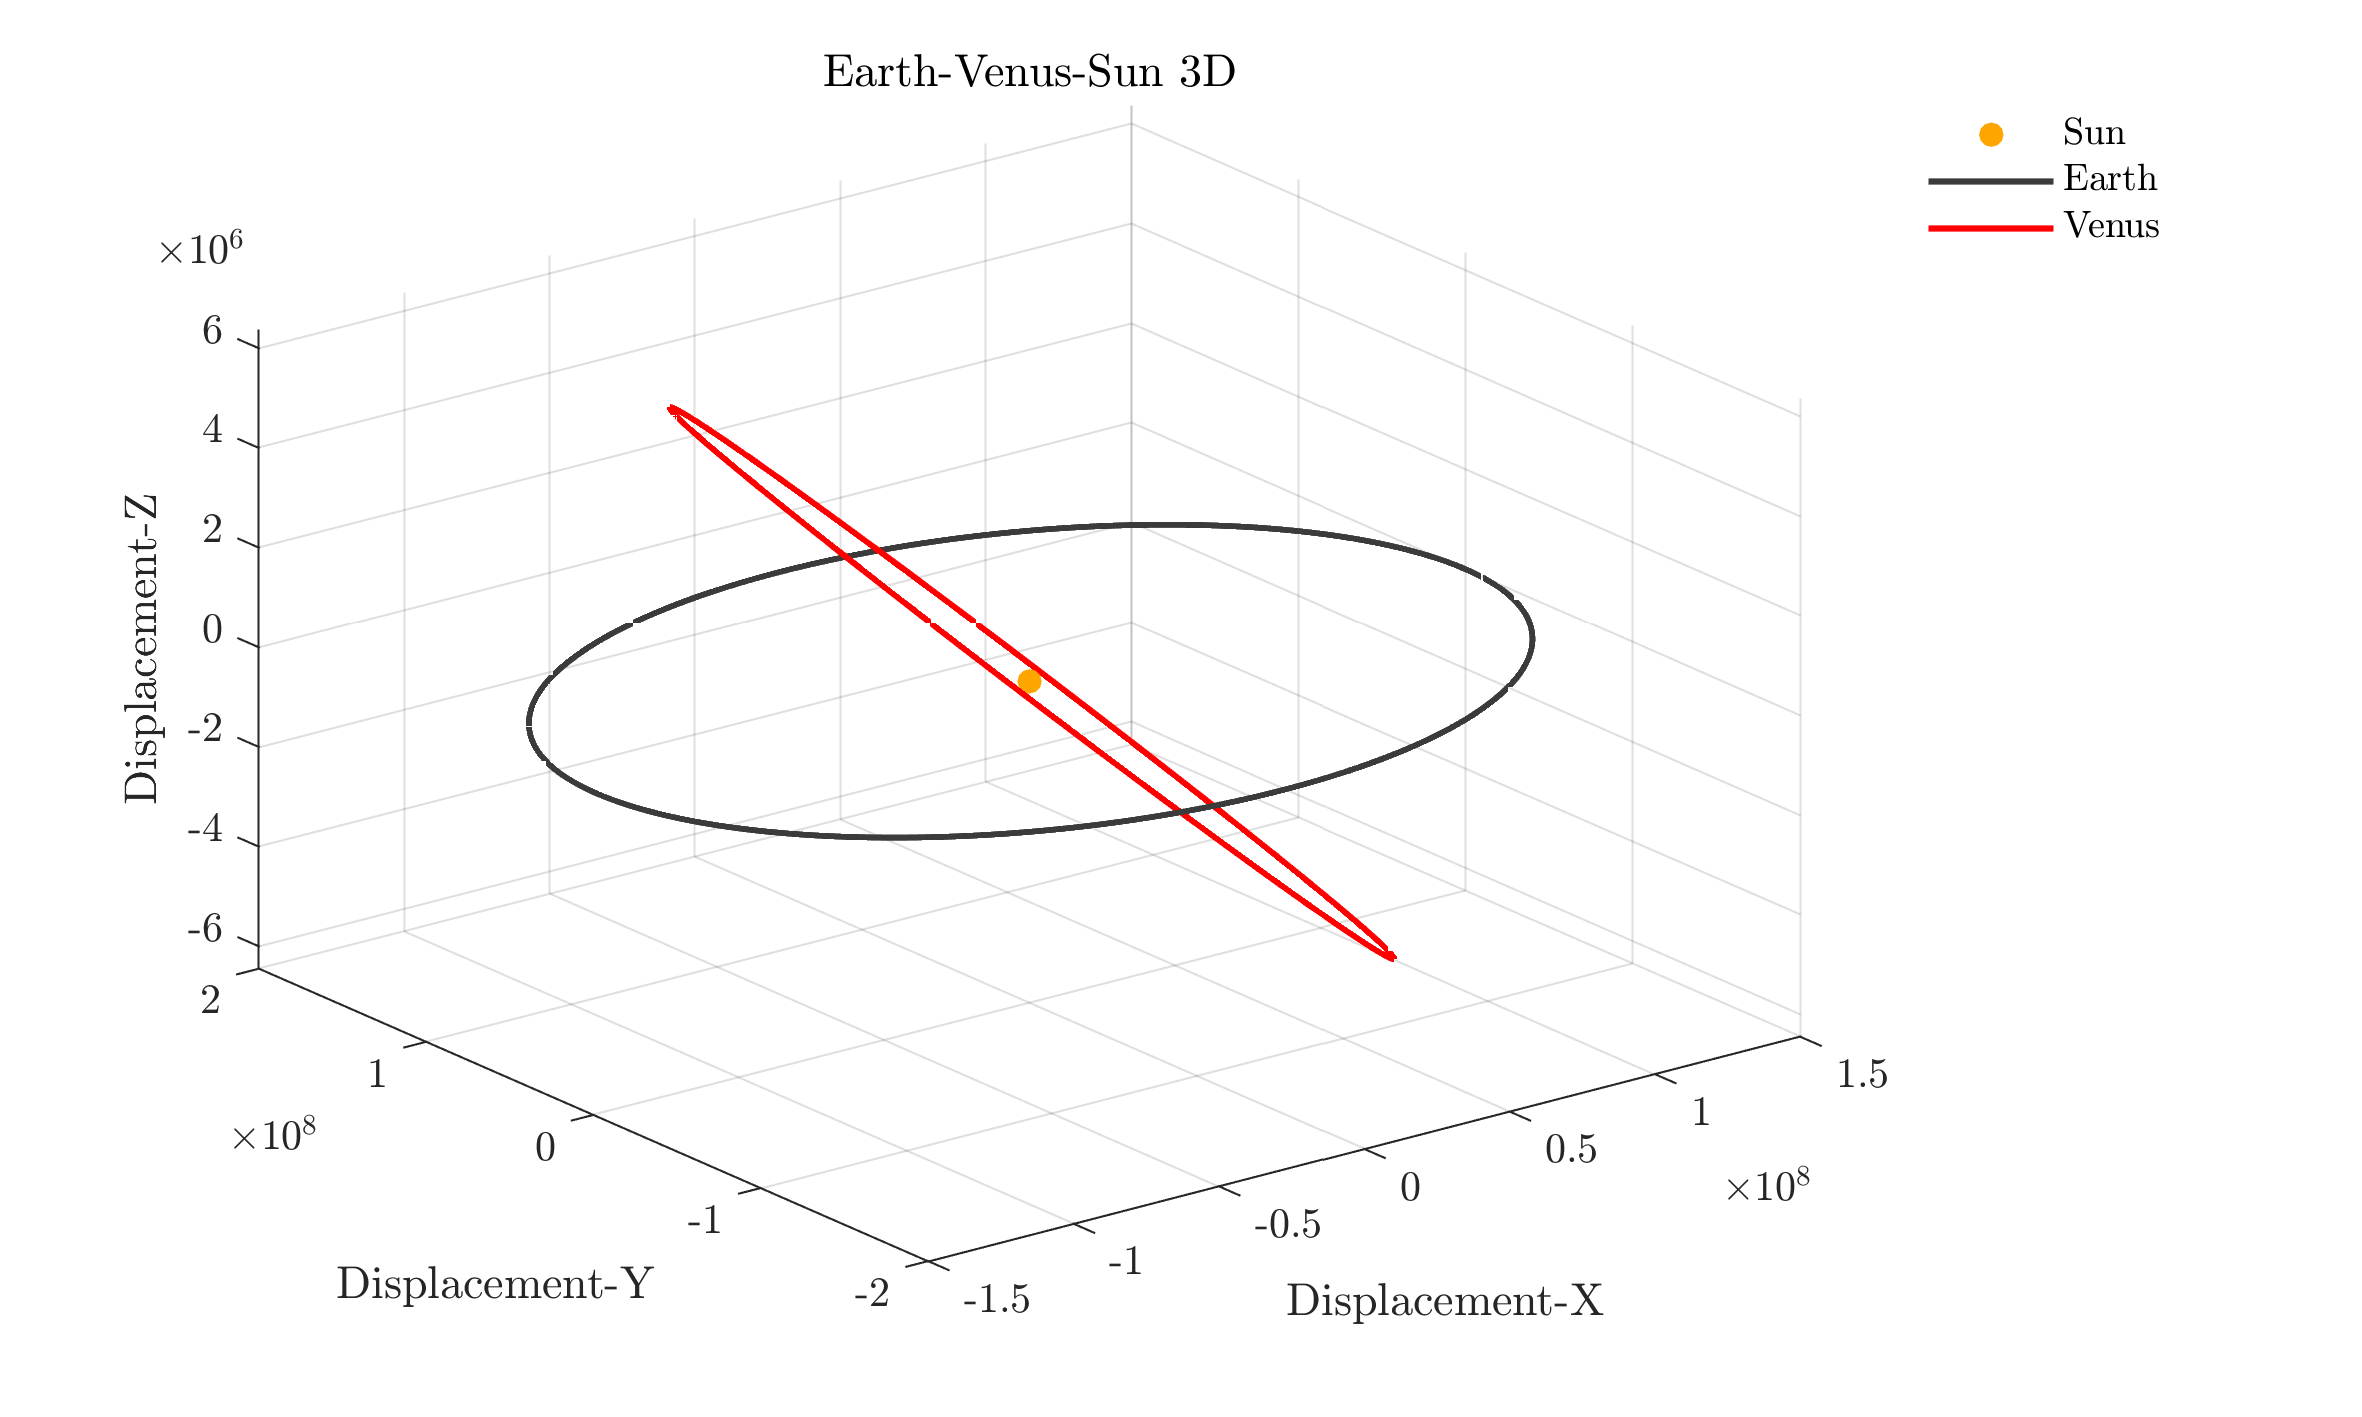
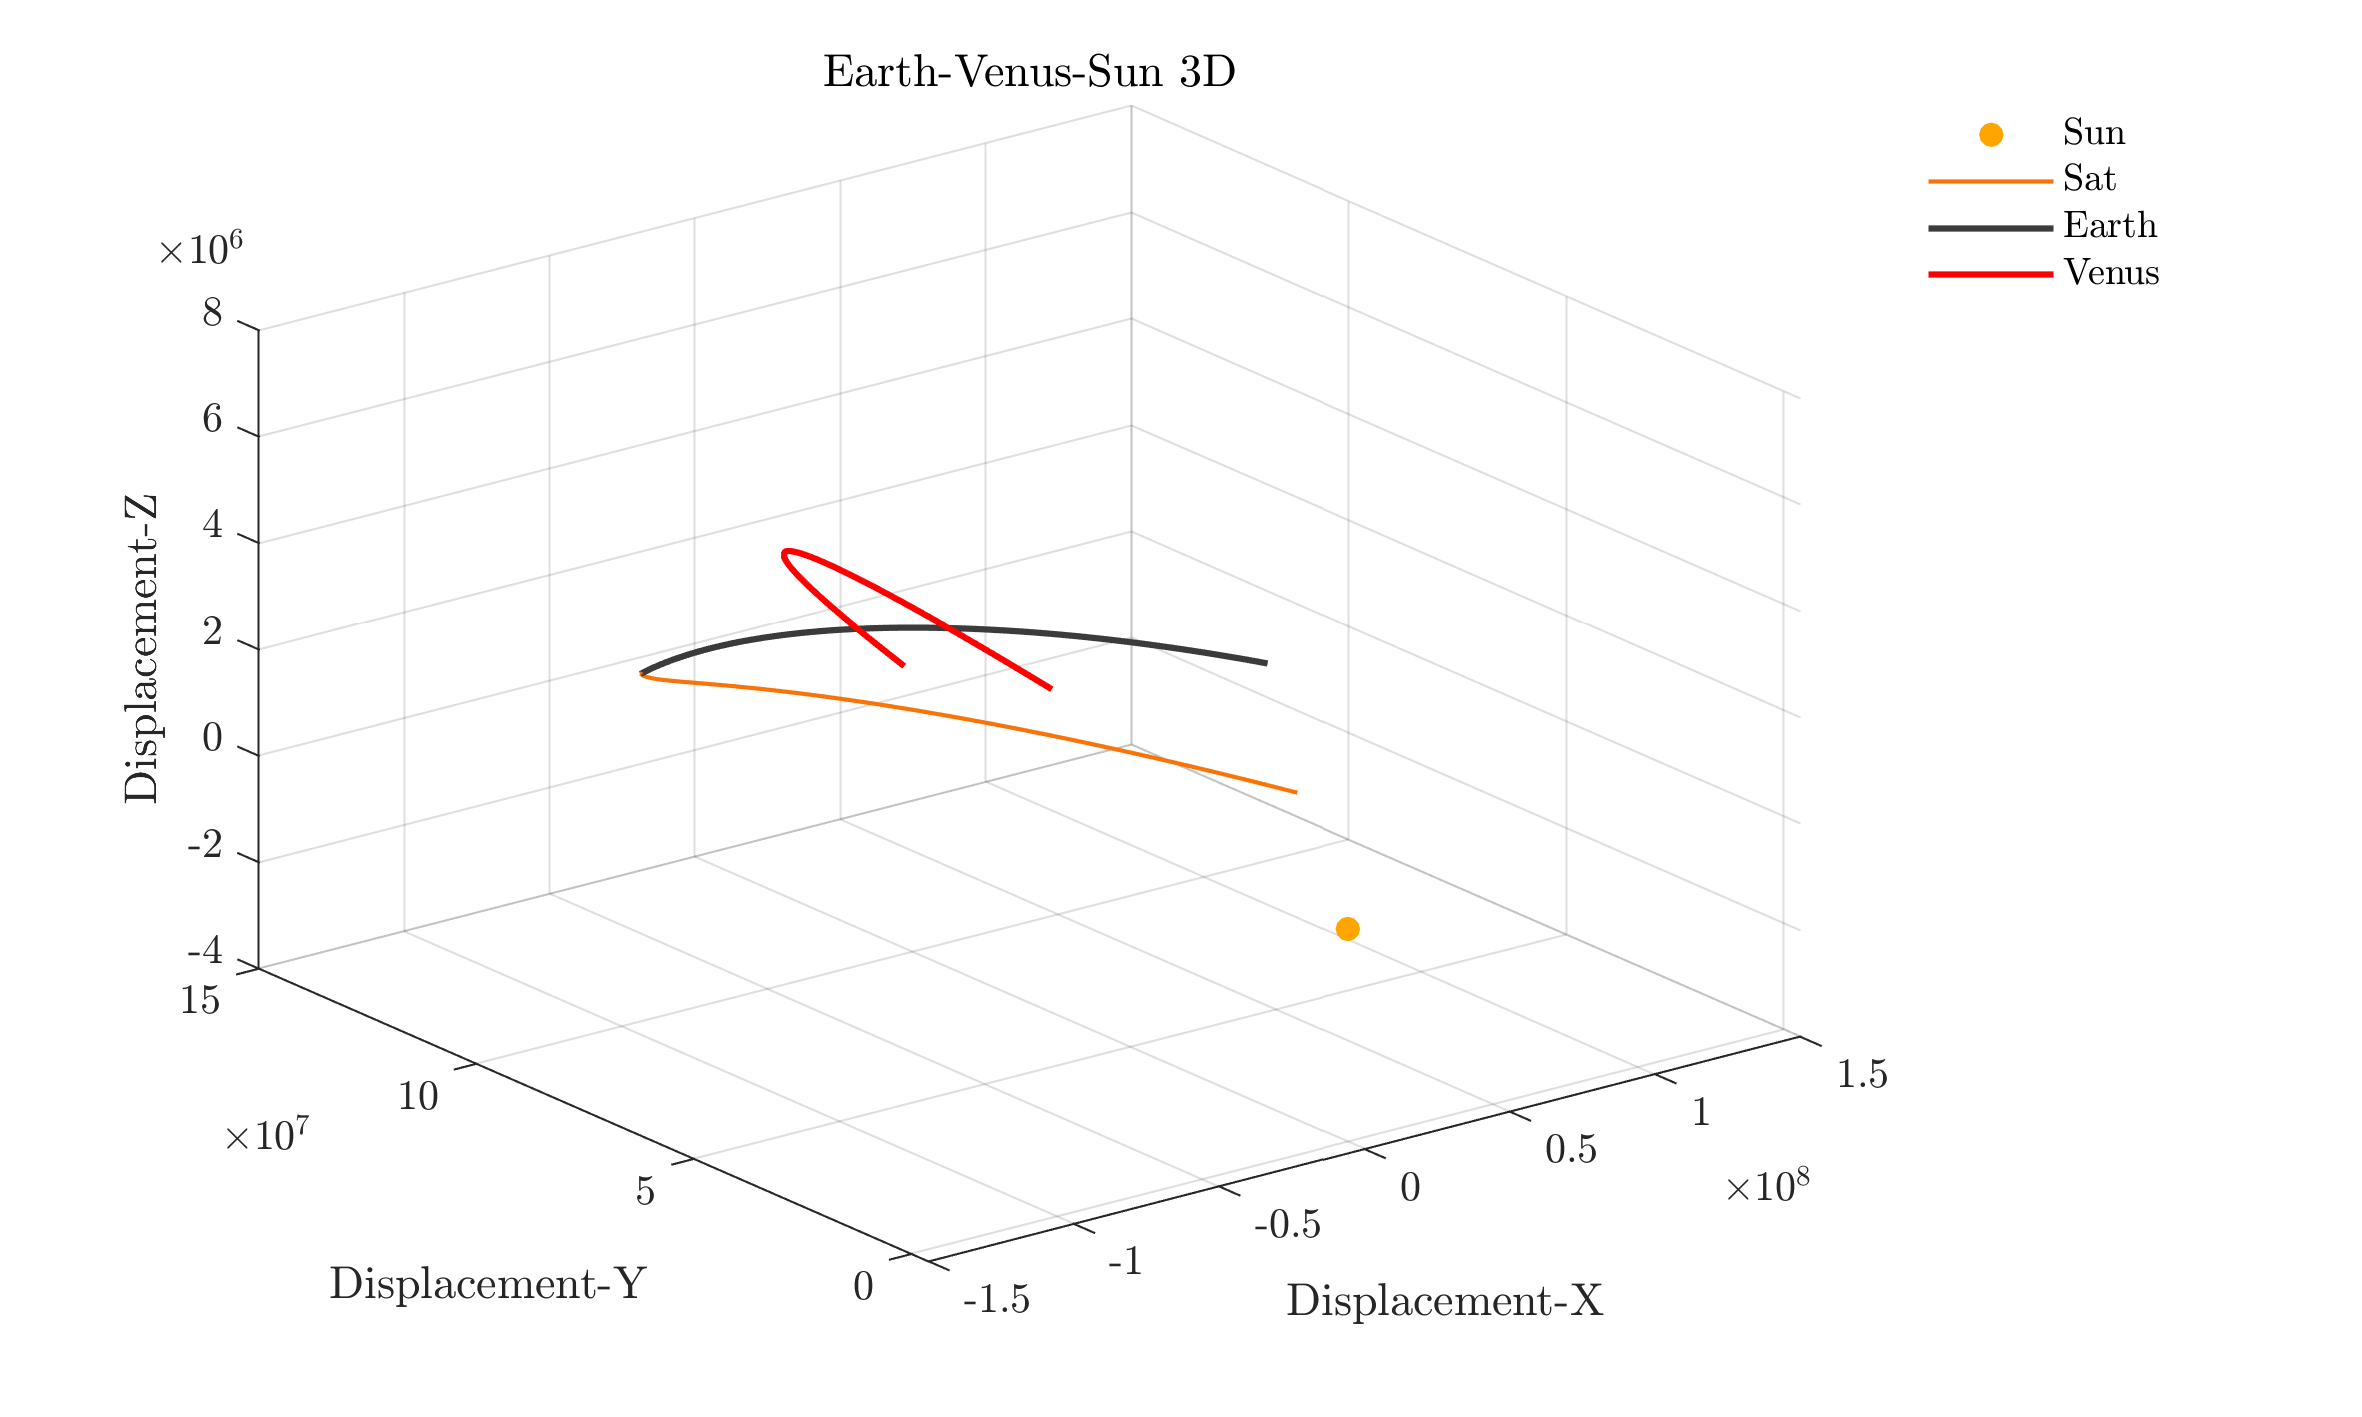
so many orbit calculations

diff --git a/AAE251_Transfer_Calculator.m b/AAE251_Transfer_Calculator.m
@@ -24,7 +24,7 @@ close all;
 
 plotnum1 = 0;
 plotnum2 = 1;
-plotnum3 = 1;
+plotnum3 = 0;
 
 % conversions
 
@@ -34,8 +34,8 @@ G = 6.6743e-11;
 
 % simulation timestep parameters
 time = 0;      % simulation starting time [s]
-dt = 3600;      % time step [s]
-timespan = s2yr; % span of time to integrate over [s]
+dt = 10;      % time step [s]
+timespan = (s2yr/365) * 10; % span of time to integrate over [s]
 
 % Sun Inits: Initialize with no velocity, act as zero velocity reference
 % x, y, z initial coordinates of sun:
@@ -57,33 +57,41 @@ earthMu = 3.986e5;      % gravitational constant [km^3/s^2]
 earthMass = 5.9722e24;  % mass of Earth [kg]
 
 % calculate the cartesian state for the given inputs:
-[earthPos, earthVel] = orbitalElements(earthA, earthE, earthI, earthRAAN, earthAOP, earthMeanLong, sunMu, sunPos);
+[earthPos, earthVel] = orbitalElements(earthA, earthE, earthI, earthRAAN, earthAOP, earthMeanLong, sunMu, sunPos, 0);
 
 % Venus Inits, pulled from J2000:
 venusA = 0.723 * AU2km; % semi major axis
-venusE = 0.00677;   % eccentricity
-venusI = 3.39471;    % inclination
-venusRAAN = 76.68069; % longitude of ascending node [deg]
-venusAOP = 131.53298;  % argument of periapsis [deg]
+venusE = 0.00677;       % eccentricity
+venusI = 3.39471;       % inclination
+venusRAAN = 76.68069;   % longitude of ascending node [deg]
+venusAOP = 131.53298;   % argument of periapsis [deg]
 venusMeanLong = 181.97973;
-venusMu = 0.1;  % gravitational constant 
+venusMu = 3.248e5;  % gravitational constant 
 % calculate the cartesian state for the given inputs:
-[venusPos, venusVel] = orbitalElements(venusA, venusE, venusI, venusRAAN, venusAOP, venusMeanLong, sunMu, sunPos);
+[venusPos, venusVel] = orbitalElements(venusA, venusE, venusI, venusRAAN, venusAOP, venusMeanLong, sunMu, sunPos, 0);
 
 % Satellite Inits:
 satA = 6600;     % semi major axis
 satE = 0;    % eccentricity
-satI = 28.5;     % inclination
-satRAAN = 50;  % longitude of ascending node [deg]
+satI = 28;     % inclination
+satRAAN = 20;  % longitude of ascending node [deg]
 satAOP = 90;   % argument of periapsis [deg]
-satMeanLong = 0;
+satMeanLong = 5;
 % calculate the cartesian state for the given inputs:
-[satPos, satVel] = orbitalElements(satA, satE, satI, satRAAN, satAOP, satMeanLong, sunMu, sunPos);
+[satPos, satVel] = orbitalElements(satA, satE, satI, satRAAN, satAOP, satMeanLong, earthMu, earthPos, earthVel);
 
 % manuver inits:
-burnStartTime = 3.5; % start time of burn [s]
-burnDuration = .2;   % duration of burn [s]
-deltaV = .5;         % change in velocity of burn [-/s]
+burn1StartTime = 3600*.9; % start time of burn [s]
+dV1 = 3.5;         % change in velocity of burn [km/s]
+
+%prealloc arrays for speed:
+
+sunPosArray = zeros(timespan / dt, 3);
+earthPosArray = zeros(timespan / dt, 3);
+earthVelArray = zeros(timespan / dt, 3);
+venusPosArray = zeros(timespan / dt, 3);
+satPosArray = zeros(timespan / dt, 3);
+satVelArray = zeros(timespan / dt, 3);
 
 %% Main simulation loop:
 
@@ -100,7 +108,7 @@ for i = 1:endTime
     %earth rk4 method:
     rEarth = sunPos - earthPos;
     % rk4 integrate:
-    earthVel = rk4(@(t,y)accel(t,earthVel,rEarth, 0, 0, 0, sunMu, 0), dt, t, earthVel);
+    earthVel = rk4(@(t,y)accel(t,earthVel,rEarth,sunMu), dt, t, earthVel);
     earthPos = rk4(@(t,y)vel(t,earthVel), dt, t, earthPos);
     earthPosArray(i,:) = earthPos;
     earthVelArray(i,:) = earthVel;
@@ -108,20 +116,34 @@ for i = 1:endTime
     %venus rk4 method:
     rVenus = sunPos - venusPos;
     % rk4 integrate:
-    venusVel = rk4(@(t,y)accel(t,venusVel,rVenus, 0, 0, 0, sunMu, 0), dt, t, venusVel);
+    venusVel = rk4(@(t,y)accel(t,venusVel,rVenus, sunMu), dt, t, venusVel);
     venusPos = rk4(@(t,y)vel(t,venusVel), dt, t, venusPos);
     venusPosArray(i,:) = venusPos;
 
     %sat rk4 method:
-    rSatPlanet = sunPos - satPos;
-    rSatMoon = earthPos - satPos;
+    rSatEarth = earthPos - satPos;
+    rSatVenus = venusPos - satPos;
+    rSatSun = sunPos - satPos;
     % define vectors for multibody dynamics:
-    rList = [rSatPlanet, rSatMoon];
-    muList = [sunMu, earthMu];
+    rList = [rSatEarth, rSatVenus, rSatSun];
+    muList = [earthMu, venusMu, sunMu];
     % rk4 integrate:
-    satVel = rk4(@(t,y)accel(t,satVel,rList, burnStartTime, burnDuration, deltaV, muList, 1), dt, t, satVel);
+    satVel = rk4(@(t,y)accel(t,satVel,rList, muList), dt, t, satVel);
+
+    thrustAccel = 0;
+
+    %thrust force:
+    if t >= burn1StartTime && t < burn1StartTime + dt
+        % apply force along the velocity vector
+        deltaV1 = satVel / norm(satVel) * dV1
+
+        satVel = satVel + deltaV1
+    end
+
+
     satPos = rk4(@(t,y)vel(t,satVel), dt, t, satPos);
     satPosArray(i,:) = satPos;
+    satVelArray(i,:) = satVel;
 end
 
 
@@ -172,7 +194,7 @@ end
 if plotnum2 == 1
 
     hfig = figure;  % save the figure handle in a variable
-    fname = '3D Plnaets Plot';
+    fname = '3D Planets Plot';
 
 
     picturewidth = 20; % set the width of image in cm
@@ -182,7 +204,7 @@ if plotnum2 == 1
 
     plot3(sunPosArray(:,1), sunPosArray(:,2), sunPosArray(:,3), '.', 'MarkerSize', 20, 'Color', '#FFA500')
     hold on
-    %plot3(satPosArray(:,1), satPosArray(:,2), satPosArray(:,3), 'LineWidth', 1, 'Color','#f97306')
+    plot3(satPosArray(:,1), satPosArray(:,2), satPosArray(:,3), 'LineWidth', 1, 'Color','#f97306')
     plot3(earthPosArray(:,1), earthPosArray(:,2), earthPosArray(:,3), 'LineWidth', 1.5, 'Color', '#3b3b3b')
     plot3(venusPosArray(:,1), venusPosArray(:,2), venusPosArray(:,3), 'LineWidth', 1.5, 'Color', 'red')
     %plot3(satPosArray(burnIndex,1), satPosArray(burnIndex,2), satPosArray(burnIndex, 3), 'r*')
@@ -190,7 +212,52 @@ if plotnum2 == 1
     xlabel('Displacement-X')
     ylabel('Displacement-Y')
     zlabel('Displacement-Z')
-    legend('Sun', 'Earth', 'Venus')
+    legend('Sun', 'Sat', 'Earth', 'Venus')
+    hold off
+    
+    grid on
+    
+    set(findall(hfig,'-property','Box'),'Box','off') % turn off box
+    set(findall(hfig,'-property','Interpreter'),'Interpreter','latex') 
+    set(findall(hfig,'-property','TickLabelInterpreter'),'TickLabelInterpreter','latex')
+    
+
+
+    set(hfig,'Units','centimeters','Position',[3 3 picturewidth hw_ratio*picturewidth])
+    pos = get(hfig,'Position');
+    set(hfig,'PaperPositionMode','Auto','PaperUnits','centimeters','PaperSize',[pos(3), pos(4)])
+    %print(hfig,fname,'-dpdf','-vector','-fillpage')
+    
+    print(hfig,fname,'-dpng','-r300')
+
+
+    xl = xlim;
+    yl = ylim;
+    zl = zlim;
+    
+    %axis equal
+end
+
+% Trajectory figure 2
+
+if plotnum2 == 1
+
+    hfig = figure;  % save the figure handle in a variable
+    fname = 'Sat Earth Plot';
+
+
+    picturewidth = 20; % set the width of image in cm
+    hw_ratio = .6; % aspect ratio
+    set(findall(hfig,'-property','FontSize'),'FontSize',16) % adjust font size
+    plot3(earthPosArray(:,1), earthPosArray(:,2), earthPosArray(:,3), 'LineWidth', 1.5, 'Color', '#3b3b3b')
+    hold on
+    plot3(satPosArray(:,1), satPosArray(:,2), satPosArray(:,3), 'LineWidth', 1, 'Color','#f97306')
+    %plot3(satPosArray(burnIndex,1), satPosArray(burnIndex,2), satPosArray(burnIndex, 3), 'r*')
+    title('Earth-Sat 3D')
+    xlabel('Displacement-X')
+    ylabel('Displacement-Y')
+    zlabel('Displacement-Z')
+    legend('Earth', 'Sat')
     hold off
     
     grid on
@@ -219,7 +286,7 @@ end
 % Trajectory Animation:
 if plotnum1 == 1
     figure(1)
-    curve = animatedline('LineWidth', 1.5, 'Color','#069af3');
+    %curve = animatedline('LineWidth', 1.5, 'Color','#069af3');
     curve1 = animatedline('LineWidth', 1, 'Color','#f97306');
     curve2 = animatedline('LineWidth', 1.5, 'Color', '#3b3b3b');
     xlabel('Displacement-X')
@@ -231,15 +298,15 @@ if plotnum1 == 1
     
     output = 0;
     playbackSpeed = 2;
-    
-    xlim(xl);
-    ylim(yl);
-    zlim(zl);
+    % 
+    % xlim(xl);
+    % ylim(yl);
+    % zlim(zl);
 
     for i=1:endTime
-        addpoints(curve, sunPosArray(i,1), sunPosArray(i,2), sunPosArray(i,3));
+        %addpoints(curve, sunPosArray(i,1), sunPosArray(i,2), sunPosArray(i,3));
         addpoints(curve1,earthPosArray(i,1), earthPosArray(i,2), earthPosArray(i,3));
-        %addpoints(curve2,earthPosArray(i,1), earthPosArray(i,2), earthPosArray(i,3));
+        addpoints(curve2,satPosArray(i,1), satPosArray(i,2), satPosArray(i,3));
         title(sprintf("Satellite Trajectory at time %.2f days", tArray(i) / (3600 * 24)));
         drawnow;
         %pause(dt / playbackSpeed);
@@ -296,7 +363,7 @@ end
 % burn - 0 => no burn compute, 1 => burn compute
 % outputs:
 % dv - acceleration vector for integration
-function dv = accel(t, v, r, burnStart, burnDuration, dV, mu, burn)
+function dv = accel(t, v, r, mu)
     % gravity forces:
     gravAccel = 0;
     for i = 1:length(mu)
@@ -305,16 +372,7 @@ function dv = accel(t, v, r, burnStart, burnDuration, dV, mu, burn)
         gravAccel = gravAccel + (mu(i) / (norm(r(r0:rf))^2) * (r(r0:rf) / norm(r(r0:rf))));
     end
     
-    thrustAccel = 0;
-
-    if burn == 1
-        %thrust force:
-        if t >= burnStart && t <= (burnStart + burnDuration)
-            % apply force along the velocity vector
-            thrustAccel = (v / norm(v)) * (dV / burnDuration);
-        end
-    end
-    dv = gravAccel + thrustAccel;
+    dv = gravAccel;
 end
 
 %% Velocity Function
@@ -341,12 +399,15 @@ end
 % outputs:
 % pos - initial position vector
 % vel - initial velocity vector
-function [pos, vel] = orbitalElements(a, e, i, raan, aop, meanLong, mu, posInit)
+function [pos, vel] = orbitalElements(a, e, i, raan, lop, meanLong, mu, posInit, velInit)
 
 % convert inputs to radians:
 raan = deg2rad(raan);
 i = deg2rad(i);
-aop = deg2rad(aop);
+lop = deg2rad(lop);
+meanLong = deg2rad(meanLong);
+
+aop = lop - raan;
 
 %% FIX THE AOP ISSUE
 
@@ -360,11 +421,10 @@ vecRotMat = eul2rotm([raan, i, aop + meanAnomoly], 'ZXZ');
 % find the vector pointing towards the periapsis
 vec = vecRotMat * [1;0;0];
 
-
 % find the length of the periapsis from orbital elements:
-periapsis = a * (1 - e)
+periapsis = a * (1 - e);
 
-r = a * (1 - e^2) / (1 + e * cosd(meanAnomoly))
+r = a * (1 - e^2) / (1 + e * cos(meanAnomoly));
 
 % find the initial position (add parent body origin to get absolute origin)
 pos = vec.' * periapsis + posInit;
@@ -374,7 +434,7 @@ pos = vec.' * r + posInit;
 % get velocity from vis-viva
 velMag = sqrt(mu * ((2/periapsis) - (1 / a)));
 
-velMag = sqrt(mu * ((2/r) - (1 / a)))
+velMag = sqrt(mu * ((2/r) - (1 / a)));
 
 % find the velocity vector:
 % find another vector 90 degrees along orbit plane:
@@ -386,5 +446,5 @@ orbitNorm = cross(vec2, vec) / norm(cross(vec2, vec));
 
 % find orbit velocity direction w/ cross product:
 velDir = cross(orbitNorm, vec) / norm(cross(orbitNorm, vec));
-vel = (velMag * velDir).';
+vel = (velMag * velDir).' + velInit;
 end
